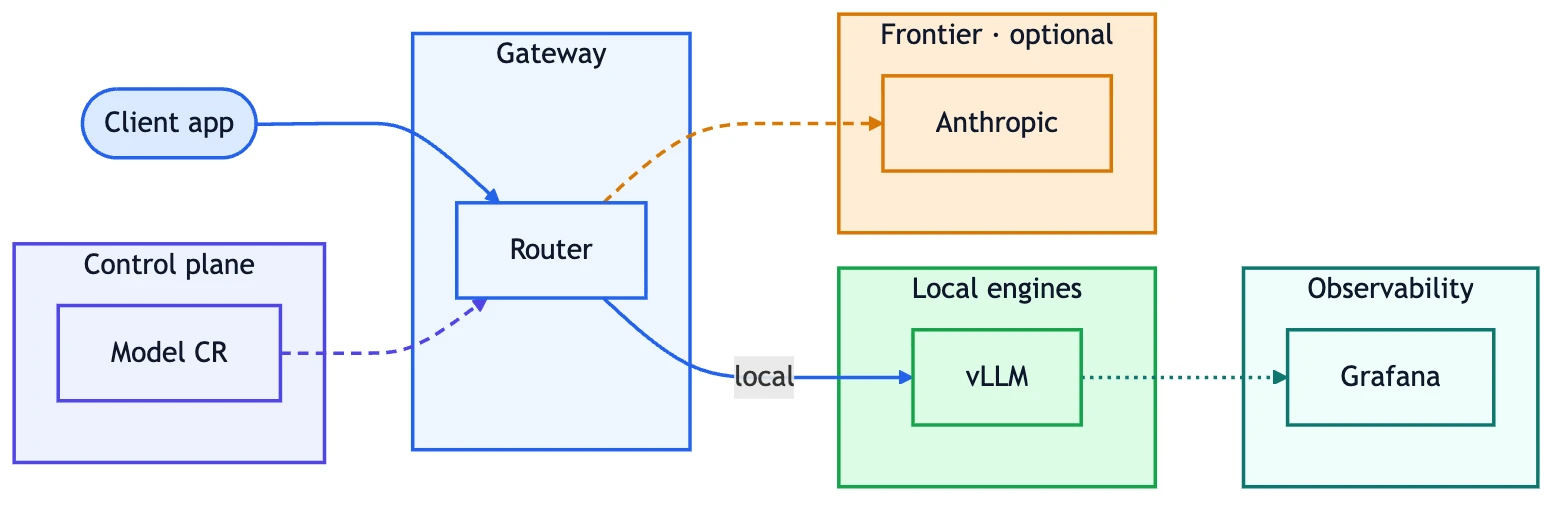
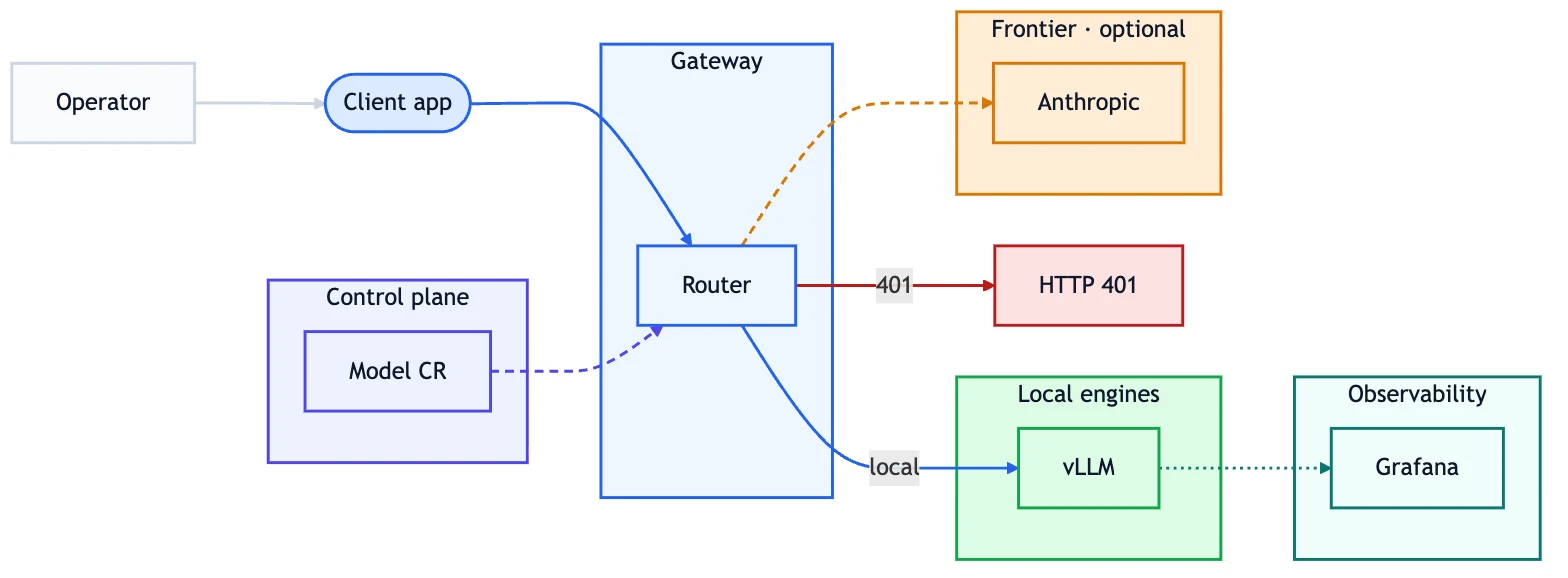
no-mistakes(review): extend diagram sample with neutral+deny roles; align arrow rule

Changed region(s): [[0.0, 0.0, 1.0, 0.9783], [0.0, 0.0889, 0.125, 0.1186], [0.4062, 0.6522, 0.4375, 0.7115]]

diff --git a/docs/contributing/markdown-and-mdx.md b/docs/contributing/markdown-and-mdx.md
@@ -242,8 +242,10 @@ Mermaid's edge syntax expresses each of the following.
 | Labeled        | `-- label -->` | Any of the above with a short protocol, verb, or condition label.                   |
 | Bidirectional  | `<-->`         | A bidirectional state projection, such as the admin API authoring custom resources. |
 
-Set the color of every edge with `linkStyle` so that the arrow inherits the palette color of the origin's role. Reserve
-solid arrows for the request path, dashed arrows for reconcile, egress, and telemetry connections.
+Set the color of every edge with `linkStyle` so that the arrow signals what kind of interaction it is, not just where it
+comes from. Use blue for a data-plane request, dashed indigo for a Kubernetes reconcile, dashed amber for egress to a
+frontier provider or external endpoint, and dotted teal for a metrics or telemetry hop. Reserve solid arrows for the
+request path.
 
 Label an arrow only when the label adds information the reader cannot infer from the shapes. Prefer protocol or
 transport tags such as `SSE`, `gRPC`, and `HTTPS`, or short verbs such as _reconcile_ or _classify_.
@@ -309,7 +311,7 @@ Do not commit the intermediate PNG.
 The following diagram uses every color role in the palette. Use it as a reference when you introduce a new component and
 are unsure which role it belongs to.
 
-![Conventions showcase: a client app reaching a blue gateway that dispatches to a green local engine and, on egress, to an amber frontier provider, with an indigo control plane reconciling into the gateway and a teal observability stack collecting metrics from the engine.](../../static/assets/docs/images/diagramming-conventions_sample.webp)
+![Conventions showcase: a neutral operator session driving a client app that reaches a blue gateway, which dispatches to a green local engine, on egress to an amber frontier provider, and to a red HTTP 401 denial branch, with an indigo control plane reconciling into the gateway and a teal observability stack collecting metrics from the engine.](../../static/assets/docs/images/diagramming-conventions_sample.webp)
 
 The Mermaid source for this sample lives at
 [`docs/contributing/mermaid/diagramming-conventions-sample.mmd`](./mermaid/diagramming-conventions-sample.mmd). Use it as
